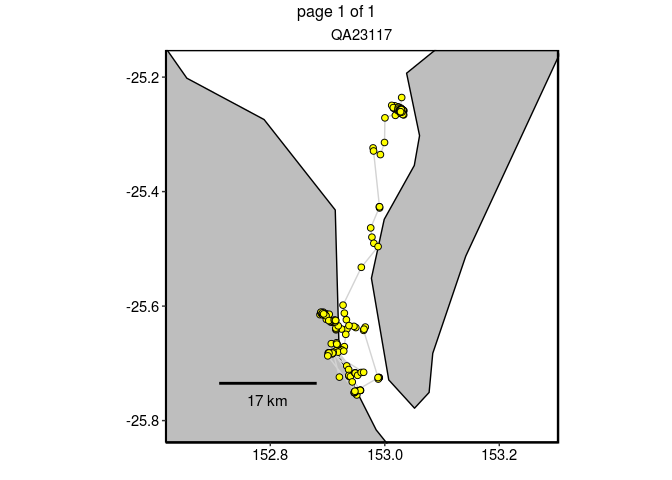
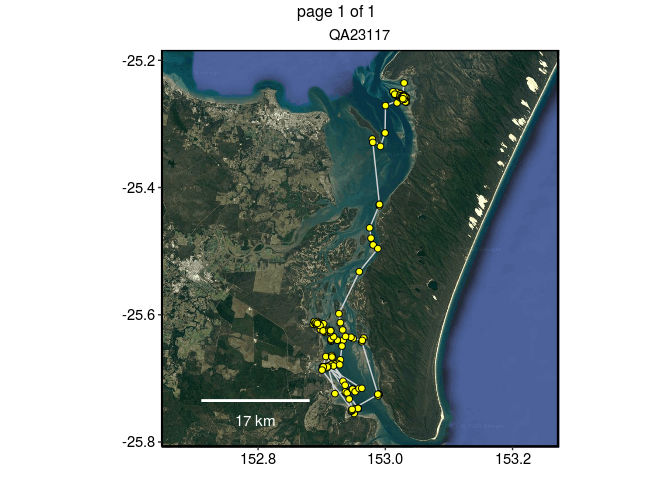
Fix issue #10

diff --git a/README.md b/README.md
@@ -53,7 +53,8 @@ plotMap(turtle, point.size = 2, line.size = 0.5, axes.lab.size = 0)
 
 ``` r
 # filtered
-plotMap(turtle.dd, point.size = 2, line.size = 0.5, axes.lab.size = 0)
+plotMap(turtle.dd, point.size = 2, line.size = 0.5, axes.lab.size = 0,
+        bgmap = "satellite", sb.line.col = "white", sb.text.col = "white")
 ```
 
 ![](README_files/figure-markdown_github/SDLfilter-2.png)
@@ -74,4 +75,4 @@ Shimada T, Limpus C, Jones R, Hazel J, Groom R, Hamann M (2016) Sea turtles retu
 Current version
 ---------------
 
-1.0.0.9013 (24 April 2018)
+1.0.0.9014 (25 April 2018)

diff --git a/NEWS.md b/NEWS.md
@@ -1,7 +1,7 @@
 ## News for Package 'SDLfilter'
 
 
-#### version 1.0.0.9011 (2018-04-17)
+#### version 1.0.0.9014 (2018-04-24)
 
 * added a new function (plot.map) to plot locations.
 * updated vignette.
